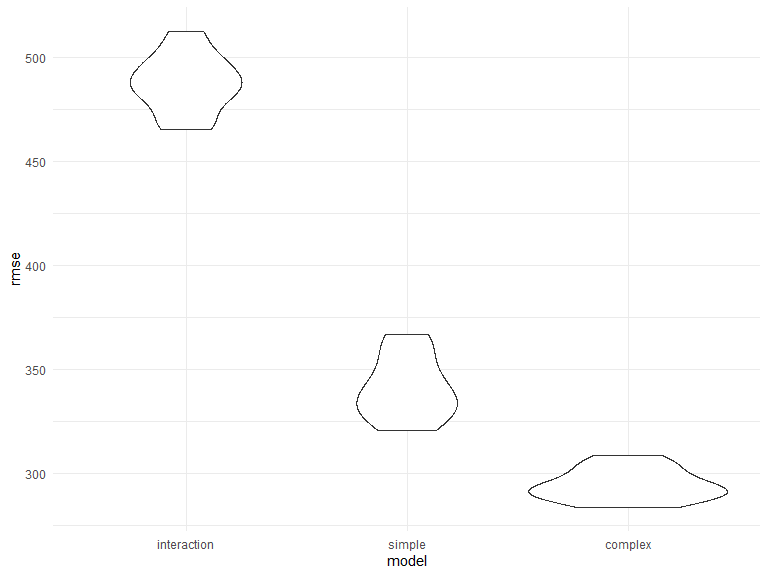
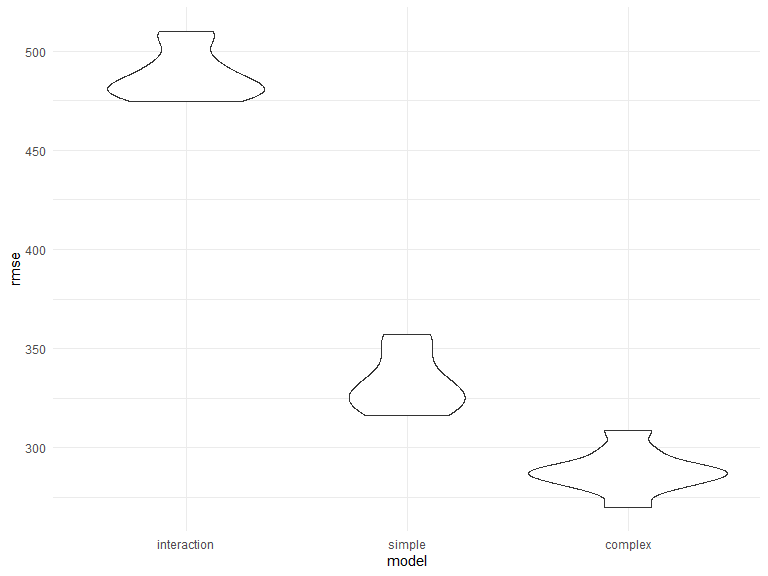
Created small boot strap of 100 and extracted betas and r squared from the results

diff --git a/p8105_hw6_jt3175.md b/p8105_hw6_jt3175.md
@@ -235,3 +235,76 @@ pivot_longer(
 <http://web.b.ebscohost.com/ehost/pdfviewer/pdfviewer?vid=1&sid=d6056f5b-5ea8-4211-8071-e675375944e1%40pdc-v-sessmgr04>
 
 ## Problem 2
+
+``` r
+weather_df = 
+  rnoaa::meteo_pull_monitors(
+    c("USW00094728"),
+    var = c("PRCP", "TMIN", "TMAX"), 
+    date_min = "2017-01-01",
+    date_max = "2017-12-31") %>%
+  mutate(
+    name = recode(id, USW00094728 = "CentralPark_NY"),
+    tmin = tmin / 10,
+    tmax = tmax / 10) %>%
+  select(name, id, everything())
+```
+
+    ## Registered S3 method overwritten by 'crul':
+    ##   method                 from
+    ##   as.character.form_file httr
+
+    ## Registered S3 method overwritten by 'hoardr':
+    ##   method           from
+    ##   print.cache_info httr
+
+    ## file path:          C:\Users\jbenn\AppData\Local\rnoaa\rnoaa\Cache/ghcnd/USW00094728.dly
+
+    ## file last updated:  2019-09-26 10:36:48
+
+    ## file min/max dates: 1869-01-01 / 2019-09-30
+
+We’ll focus on a simple linear regression with tmax as the response and
+tmin as the predictor.
+
+Use 5000 bootstrap samples and, for each bootstrap sample, produce
+estimates of these two quantities.
+
+``` r
+boot_straps = 
+  weather_df %>% 
+  modelr::bootstrap(n = 100)
+```
+
+``` r
+bootstrap = 
+  weather_df %>% 
+  modelr::bootstrap(n = 100) %>% 
+  mutate(
+    models = map(strap, ~lm(tmax ~ tmin, data = .x))
+  )
+
+output = 
+  bootstrap %>% 
+  mutate(
+    results_ln = map(models, broom::tidy),
+    results_rsq = map(models, broom::glance)
+    ) %>% 
+  select(-strap, -models) %>% 
+  unnest(results_ln, results_rsq) %>% 
+  select(.id, term, estimate, adj.r.squared) %>% 
+  pivot_wider(
+    names_from = term, 
+    values_from = estimate
+  ) %>% 
+  janitor::clean_names() %>% 
+  mutate(
+    ln_est = log(intercept * tmin)
+  ) %>% 
+  select(adj_r_squared, ln_est)
+```
+
+Plot the distribution of your estimates, and describe these in words.
+
+Using the 5000 bootstrap estimates, identify the 2.5% and 97.5%
+quantiles to provide a 95% confidence interval
